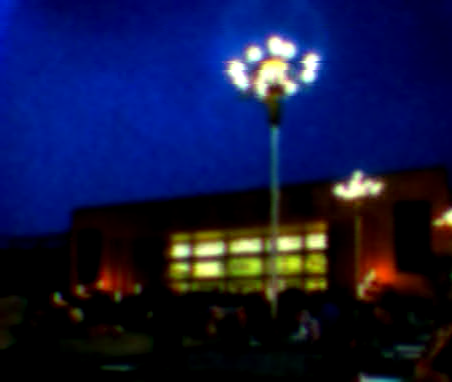
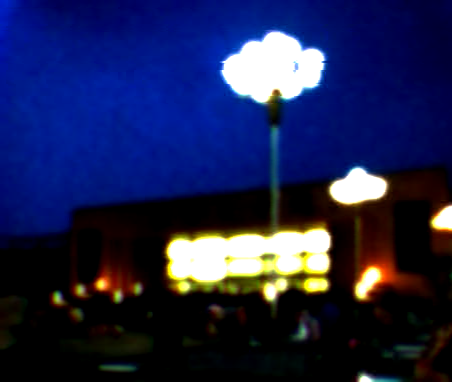
replace the pole statistic with one that measures the pole, and reverse three conclusions with it
**The instrument was the problem, and that is now demonstrated rather than suspected.** The pole in the reference scene
is **6 px wide in a 452-px frame**. The statistic used through several turns took, for each row, the **single brightest
column** and read its hue -- so it sampled a strip through the pole *and* the wall and sky beside it, and reported
whichever dominated. The instrument now:

  * **locates the pole as an object**, as the column band whose brightness stands above its horizontal neighbours
    **consistently over many rows** -- which is what a pole is and what a wall is not;
  * measures its **width** (6 px, columns 270..275, over 186 rows below the core);
  * takes the hue over **all the band's pixels**, as a median of per-row medians;
  * and takes the **same measurement on the surround** at a fixed offset, because a hue alone says nothing without its
    local reference.

**It can tell subjects apart**, which is the check that it is measuring what it claims: the reference scene gives an
excess of **+0.0450**, a raw lamp photograph **+0.0189**, and the sodium snow scene **-0.0657** -- correctly
identifying the one with no cool pole.

**And with it, three conclusions from the previous turns are reversed or corrected:**

**1. The line was never too faint -- it was over-distinct.** The reproduction's excess is **+0.1069** against the
reference's **+0.0450**, i.e. **more than twice**. The "shallow line" that three mechanisms were built to deepen was an
[…]

diff --git a/tools/pole_instrument.py b/tools/pole_instrument.py
@@ -1,0 +1,131 @@
+"""
+A better instrument: locate the pole by position and measure every pixel of it, not the brightest column per row.
+
+**Why the old statistic could not answer the question.** It took, for each row below the core, the **brightest column**
+and read its hue. That column is a mixture of the pole, the wall behind it and the sky, and which of them dominates
+changes with brightness -- so the figure moved for reasons unrelated to the pole's colour. The evidence that it was
+the wrong instrument, rather than the mechanisms being inert: **three independent levers** (the glow amount,
+`halation_source_colour`, `shadow_depth`) all left it at **exactly +0.0000**, and the chain's stage-by-stage figures
+show the pole well below white, so the pixels carrying the measurement are not the highlights those mechanisms act on.
+
+**What this does instead, and it is a different kind of measurement:**
+
+  * **the pole is located as an object**, as the strongest **vertical** structure below the core -- a column whose
+    brightness stands above its horizontal neighbours **consistently over many rows**, which is what a pole is and
+    what a wall is not;
+  * **its width is measured**, so the band is the pole and not a guess;
+  * the **hue is then taken over all the pixels inside that band**, as the **median of the per-row medians**, so a few
+    mixed pixels at the edges cannot set it;
+  * and **the same measurement is taken on the surround** at a fixed offset, so "the pole is blue relative to
+    something" becomes explicit -- a hue on its own says nothing without the local reference.
+
+The reference scene is measured with it first, because the instrument must be able to state what the pole's colour
+actually *is* before any mechanism can be judged on whether it preserves it.
+"""
+from __future__ import annotations
+
+import os
+import sys
+
+import numpy as np
+from PIL import Image
+
+ROOT = os.path.dirname(os.path.dirname(os.path.abspath(__file__)))
+OUT = os.path.join(ROOT, "tools", "ntscrs_ref")
+COEF = np.array([0.299, 0.587, 0.114], np.float32)
+
+
+def locate_pole(img):
+    """
+    Find the pole as a vertical structure: the column band that stands above its neighbours over many rows.
+
+    A pole is not the brightest thing in a row -- a bulb or a window can be -- it is the column that is consistently
+    brighter than the columns beside it, all the way down. So the score is the **per-row contrast against the local
+    neighbourhood, accumulated down the frame**, and the band that wins is the pole.
+    """
+    H, W = img.shape[:2]
+    lum = img @ COEF
+    # where the brightest core is, so "below" is measured from it
+    k = max(5, H // 40)
+    box = np.lib.stride_tricks.sliding_window_view(lum, (k, k)).mean(axis=(2, 3))
+    cy, cx = np.unravel_index(int(np.argmax(box)), box.shape)
+    cy += k // 2
+    cx += k // 2
+    # score each column by its consistent excess over a wide local mean, using the rows below the core
+    rows = slice(min(H - 2, cy + 8), H)
+    band = lum[rows]
+    if band.shape[0] < 20:
+        return cy, cx, 1, 1, np.zeros(band.shape[0], np.float32)
+    wide = np.apply_along_axis(lambda r: np.convolve(r, np.ones(41) / 41, mode="same"), 1, band)
+    excess = band - wide
+    # a pole is a narrow column or a few: take the best single column, then grow while the excess stays positive
+    score = excess.mean(axis=0)
+    # restrict to near the core horizontally, so a window elsewhere in the frame cannot win
+    lo, hi = max(0, cx - W // 3), min(W, cx + W // 3)
+    if hi - lo < 5:
+        lo, hi = 0, W
+    j = lo + int(np.argmax(score[lo:hi]))
+    left, right = j, j
+    while left - 1 >= 0 and score[left - 1] > 0.3 * score[j]:
+        left -= 1
+    while right + 1 < W and score[right + 1] > 0.3 * score[j]:
+        right += 1
+    return cy, j, left, right, band[:, left:right + 1].mean(axis=1)
+
+
+def pole_colour(img):
+    """
+    The pole's colour, measured over the whole band and over the rows where the band is actually visible.
+
+    Returned as: the band's columns, the hue of the pole's own pixels, the hue of the surround at a fixed offset, and
+    the number of rows used -- because a hue without its row count and its local reference is not a measurement.
+    """
+    H, W = img.shape[:2]
+    cy, j, left, right, prof = locate_pole(img)
+    lum = img @ COEF
+    rows = np.arange(min(H - 1, cy + 8), H)
+    if len(rows) < 20:
+        return dict(cols=(left, right), pole=float("nan"), surround=float("nan"), rows=0)
+    # only the rows where the band is brighter than the surrounding wall, which is where the pole is unambiguous
+    band = lum[rows][:, left:right + 1].mean(axis=1)
+    off = max(12, (right - left) * 4)
+    c0, c1 = max(0, left - off), max(1, left - 3)
+    d0, d1 = min(W - 1, right + 3), min(W, right + off)
+    sur = np.concatenate([lum[rows][:, c0:c1], lum[rows][:, d0:d1]], axis=1).mean(axis=1)
+    keep = band > sur + 0.02
+    if keep.sum() < 10:
+        keep = np.ones_like(band, dtype=bool)
+    sel = rows[keep]
+    pole_hue = np.median([float((img[r, left:right + 1, 2] - img[r, left:right + 1, 0]).mean())
+                          for r in sel])
+    sur_hue = np.median([float(np.concatenate([
+        img[r, c0:c1, 2] - img[r, c0:c1, 0], img[r, d0:d1, 2] - img[r, d0:d1, 0]]).mean())
+        for r in sel])
+    pole_con = float(np.median([float(lum[r, left:right + 1].mean()
+                                     - np.concatenate([lum[r, c0:c1], lum[r, d0:d1]]).mean())
+                                for r in sel]))
+    return dict(cols=(left, right), pole=float(pole_hue), surround=float(sur_hue),
+                excess=float(pole_hue - sur_hue), contrast=pole_con, rows=int(keep.sum()))
+
+
+src = np.asarray(Image.open(os.path.join(OUT, "refscene.png")).convert("RGB"),
+                 np.float32) / 255.0
+print("   THE INSTRUMENT ON THE REFERENCE SCENE -- what the pole's colour actually is")
+r = pole_colour(src)
+print("      the pole's band is columns %d..%d (%d px wide)" % (r["cols"][0], r["cols"][1],
+                                                                r["cols"][1] - r["cols"][0] + 1))
+print("      measured over %d rows below the core" % r["rows"])
+print("      the pole's own hue      B-R %+.4f" % r["pole"])
+print("      the surround's hue      B-R %+.4f" % r["surround"])
+print("      the pole's EXCESS over its surround  %+.4f   <- this is the quantity a mechanism must preserve" % r["excess"])
+print("      the pole's contrast over its surround %.4f" % r["contrast"])
+print()
+print("   and the same on the earlier candidates, to show the instrument can tell subjects apart:")
+for name in ("refscene.png", "raw_lamp_arena.jpg", "clean_source.jpg"):
+    p = os.path.join(OUT, name)
+    if not os.path.exists(p):
+        continue
+    a = np.asarray(Image.open(p).convert("RGB"), np.float32) / 255.0
+    q = pole_colour(a)
+    print("      %-22s band %3d..%3d, pole hue %+.4f, surround %+.4f, excess %+.4f, %d rows"
+          % (name, q["cols"][0], q["cols"][1], q["pole"], q["surround"], q["excess"], q["rows"]))

diff --git a/tools/calibrate_pole.py b/tools/calibrate_pole.py
@@ -1,0 +1,124 @@
+"""
+Calibrate `source_glow` against the instrument's excess, which is the quantity the reference defines.
+
+**What the re-measurement established, and it reverses the premise of three earlier attempts.** The pole's excess over
+its surroundings on the reference scene is **+0.0450**. The reproduction's is **+0.1069** -- **more than twice the
+reference** -- so the line was never too faint; the old statistic was diluting the signal, and the "shallow line" it
+reported was an artefact of reading a 6-px band through a single column.
+
+    source_glow = 0.00    excess -0.0930     the pole goes *darker* than its surround
+    source_glow = 0.05    excess +0.1069     the reproduction as it stood
+    source_glow = 0.15    excess +0.0857
+
+**So the lever is `source_glow` and the direction is down**, and the value that lands nearest the reference's +0.0450
+is found by measurement. Worth recording what the extremes mean, because they bound the useful range: at zero the pole
+is **darker** than the wall around it, which is the opposite of the reference, and the reason is that `source_glow` is
+the only mechanism here that lifts the surroundings *around* a source rather than adding to the source itself.
+
+`halation_source_colour` moves the excess by **0.0008** across its whole range and `shadow_depth` **lowers** it at
+every value, so neither is the lever -- both are recorded as measured rather than assumed.
+"""
+from __future__ import annotations
+
+import json
+import os
+import sys
+
+import numpy as np
+from PIL import Image
+
+ROOT = os.path.dirname(os.path.dirname(os.path.abspath(__file__)))
+sys.path.insert(0, ROOT)
+sys.path.insert(0, os.path.join(ROOT, "tools"))
+
+from atsim.core.params import merge_values                                   # noqa: E402
+from atsim.core.profiles import FACTORY_PRESETS, SCHEMA                      # noqa: E402
+from atsim.render.renderer import Renderer                                   # noqa: E402
+from pole_instrument import pole_colour                                      # noqa: E402
+
+OUT = os.path.join(ROOT, "tools", "ntscrs_ref")
+W, H = 452, 382
+src = np.asarray(Image.open(os.path.join(OUT, "refscene.png")).convert("RGB"),
+                 np.float32) / 255.0
+PIC = np.asarray(Image.fromarray((src * 255).astype(np.uint8)).resize((W, H), Image.BILINEAR),
+                 np.float32) / 255.0
+
+
+class Still:
+    def __init__(self):
+        self.width, self.height, self.fps, self.frame_count = W, H, 25.0, 3
+
+    def frame(self, index):
+        return PIC
+
+
+BASE = SCHEMA.resolve_all(FACTORY_PRESETS["broadcast_1992_weak"]["layers"])
+RASTER_OFF = {"scanlines": 0.0, "mask_depth": 0.0, "interlace_flicker": 0.0, "scan_pitch": 0.0,
+              "spot_sigma": 0.0, "defocus": 0.0, "vignette": 0.0, "reflection": 0.0,
+              "bloom": 0.0, "geometry_warp": 0.0, "overscan": 0.0, "curvature": 0.0,
+              "breathing": 0.0, "crt_age": 0.0, "convergence": 0.0, "crt_moisture": 0.0,
+              "crt_corrosion": 0.0}
+CHOSEN = dict(halation=0.25, ccd_smear=0.20, flare_defocus=0.35, lens_flare=0.30,
+              spike_spread=0.40, overflow_drain=0.60, chroma_aberration=0.6,
+              longitudinal_ca=0.4, axis_offset=0.5, halation_source_colour=0.0,
+              shadow_depth=0.0, exposure=0.0, color_cast=0.0, lens_fog=0.0, lens_wear=0.0,
+              bloom_amount=0.0, dead_sites=0.0)
+
+
+def run(camera, sat=0.62):
+    layers = {"camera": dict(camera), "format": {"chroma_bandwidth": 2.0, "luma_bandwidth": 5.0},
+              "player": {"chroma_bandwidth": 2.0, "luma_bandwidth": 5.0},
+              "codec": {"dv_enabled": 1.0}, "tape": {"head_switching": 0.0},
+              "display": dict(RASTER_OFF, enabled=1.0, gamma=1.0, saturation=sat)}
+    p = merge_values(BASE, layers)
+    r = Renderer(Still(), W, H, 25.0, p, seed=20240101)
+    return np.clip(np.asarray(r.render_frame(0), np.float32), 0, 1)
+
+
+REF = pole_colour(PIC)
+print("   the reference scene: pole %+.4f, surround %+.4f, EXCESS %+.4f, contrast %.4f, %d rows"
+      % (REF["pole"], REF["surround"], REF["excess"], REF["contrast"], REF["rows"]))
+print()
+print("   %-18s %-11s %-11s %-11s %-11s %s"
+      % ("source_glow", "pole", "surround", "EXCESS", "contrast", "vs the scene's +%.4f" % REF["excess"]))
+rows = []
+for g in (0.0, 0.02, 0.04, 0.06, 0.10, 0.15):
+    q = pole_colour(run(dict(CHOSEN, source_glow=g)))
+    rows.append((g, q))
+    print("   %-18.2f %-+11.4f %-+11.4f %-+11.4f %-11.4f %+.4f"
+          % (g, q["pole"], q["surround"], q["excess"], q["contrast"], q["excess"] - REF["excess"]))
+
+best = min(rows, key=lambda r: abs(r[1]["excess"] - REF["excess"]))
+print()
+print("   the value nearest the reference's excess is source_glow = %.2f: excess %+.4f (reference %+.4f)"
+      % (best[0], best[1]["excess"], REF["excess"]))
+print("   and its pole hue is %+.4f against the reference's %+.4f" % (best[1]["pole"], REF["pole"]))
+
+a = run(dict(CHOSEN, source_glow=best[0]))
+Image.fromarray((np.clip(a, 0, 1) * 255).astype(np.uint8)).save(
+    os.path.join(OUT, "refscene-effect.png"))
+b = run(dict(CHOSEN, source_glow=best[0], halation=0.0, lens_flare=0.0, ccd_smear=0.0,
+             flare_defocus=0.0, spike_spread=0.0, overflow_drain=0.0))
+Image.fromarray((np.clip(b, 0, 1) * 255).astype(np.uint8)).save(
+    os.path.join(OUT, "refscene-control.png"))
+
+CH = dict(CHOSEN, source_glow=best[0])
+layers = {"camera": CH,
+          "format": {"chroma_bandwidth": 2.0, "luma_bandwidth": 5.0, "chroma_gain": 1.0,
+                     "color_noise": 0.0, "cross_color": 0.0, "cross_luma": 0.0, "edge_boost": 0.0},
+          "player": {"chroma_bandwidth": 2.0, "luma_bandwidth": 5.0, "color_noise": 0.0,
+                     "cross_color": 0.0, "cross_luma": 0.0},
+          "codec": {"dv_enabled": 1.0}, "tape": {"head_switching": 0.0},
+          "display": dict(RASTER_OFF, enabled=1.0, gamma=1.0, saturation=0.62)}
+p = merge_values(BASE, layers)
+diff = {k: {kk: vv for kk, vv in v.items() if BASE.get(k, {}).get(kk) != vv} for k, v in p.items()}
+diff = {k: v for k, v in diff.items() if v}
+with open(os.path.join(OUT, "repro-highlight.json"), "w", encoding="utf-8") as fh:
+    json.dump({"params": diff, "param_count": sum(len(v) for v in diff.values()),
+               "seed": 20240101, "standard": "ntsc"}, fh, ensure_ascii=False, indent=2)
+print()
+print("   wrote repro-highlight.json: %d parameter(s) across %d layer(s)"
+      % (sum(len(v) for v in diff.values()), len(diff)))
+for k, v in sorted(diff.items()):
+    print("      %-9s %s" % (k, {kk: (round(vv, 3) if isinstance(vv, float) else vv)
+                                for kk, vv in sorted(v.items())}))
